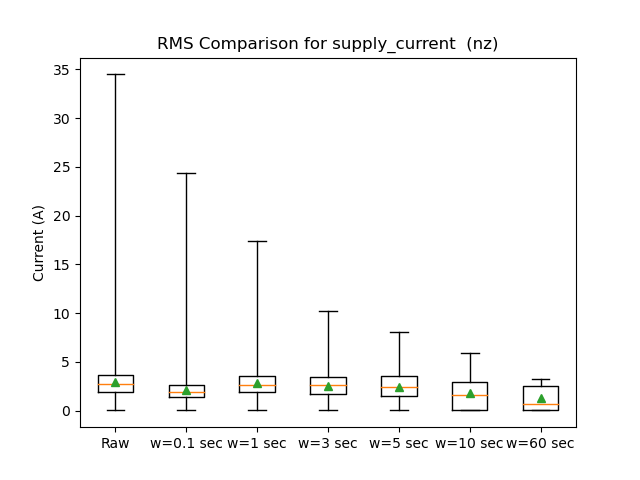
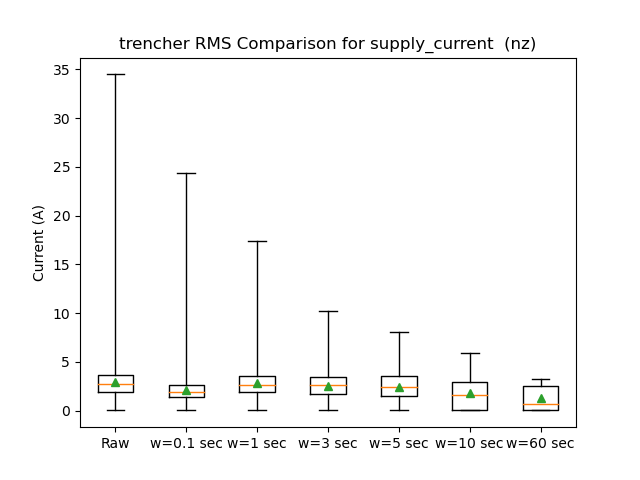
Added proper  titles to the graphs

Changed region(s): [[0.1875, 0.0625, 0.8438, 0.125]]

diff --git a/analyzer.py b/analyzer.py
@@ -99,6 +99,8 @@ def create_boxplot(
             arr_no_zeros = arr[arr != 0]
             values[idx] = arr_no_zeros
 
+    item_name = os.path.basename(fname).split('.')[0]
+
     plt.boxplot(values, showmeans=True, showfliers=False, whis=(0, 100))
     ticks = [1]
     labels = ["Raw"]
@@ -108,7 +110,7 @@ def create_boxplot(
 
     plt.xticks(ticks, labels)
     plt.ylabel("Current (A)")
-    plt.title(f"RMS Comparison for {header} {'' if not strip_zeros else " (nz)"}")
+    plt.title(f"{item_name} RMS Comparison for {header} {'' if not strip_zeros else " (nz)"}")
     plt.savefig(fname)
 
 

diff --git a/README.md b/README.md
@@ -28,3 +28,62 @@ There are 4 sets of box plots for each motor.
 
 The Y axis has units of Amps
 The X axis is spaced by Raw Data, then each of the sliding window sizes in order from least to greatest.
+
+## Results
+
+### Hopper Linear Actuators
+![img](https://raw.githubusercontent.com/Cardinal-Space-Mining/2025-Cosmic-Motor-Power-Analysis/refs/heads/main/out/hopper_act.info.csv_output_current_boxplot.png)
+
+![img2](https://raw.githubusercontent.com/Cardinal-Space-Mining/2025-Cosmic-Motor-Power-Analysis/refs/heads/main/out/hopper_act.info.csv_output_current_nz_boxplot.png)
+
+![img](https://raw.githubusercontent.com/Cardinal-Space-Mining/2025-Cosmic-Motor-Power-Analysis/refs/heads/main/out/hopper_act.info.csv_supply_current_boxplot.png)
+
+![img2](https://raw.githubusercontent.com/Cardinal-Space-Mining/2025-Cosmic-Motor-Power-Analysis/refs/heads/main/out/hopper_act.info.csv_supply_current_nz_boxplot.png)
+
+### Hopper Belt
+![img](https://raw.githubusercontent.com/Cardinal-Space-Mining/2025-Cosmic-Motor-Power-Analysis/refs/heads/main/out/hopper_belt.info.csv_output_current_boxplot.png)
+
+![img](https://raw.githubusercontent.com/Cardinal-Space-Mining/2025-Cosmic-Motor-Power-Analysis/refs/heads/main/out/hopper_belt.info.csv_output_current_nz_boxplot.png)
+
+![img](https://raw.githubusercontent.com/Cardinal-Space-Mining/2025-Cosmic-Motor-Power-Analysis/refs/heads/main/out/hopper_belt.info.csv_supply_current_boxplot.png)
+
+![img](https://raw.githubusercontent.com/Cardinal-Space-Mining/2025-Cosmic-Motor-Power-Analysis/refs/heads/main/out/hopper_belt.info.csv_supply_current_nz_boxplot.png)
+
+### Left Track
+
+![img](https://raw.githubusercontent.com/Cardinal-Space-Mining/2025-Cosmic-Motor-Power-Analysis/refs/heads/main/out/track_left.info.csv_output_current_boxplot.png)
+
+
+![img](https://raw.githubusercontent.com/Cardinal-Space-Mining/2025-Cosmic-Motor-Power-Analysis/refs/heads/main/out/track_left.info.csv_output_current_nz_boxplot.png)
+
+![img](https://raw.githubusercontent.com/Cardinal-Space-Mining/2025-Cosmic-Motor-Power-Analysis/refs/heads/main/out/track_left.info.csv_supply_current_boxplot.png)
+
+
+![img](https://raw.githubusercontent.com/Cardinal-Space-Mining/2025-Cosmic-Motor-Power-Analysis/refs/heads/main/out/track_left.info.csv_supply_current_nz_boxplot.png)
+
+### Right Track
+
+![img](https://raw.githubusercontent.com/Cardinal-Space-Mining/2025-Cosmic-Motor-Power-Analysis/refs/heads/main/out/track_right.info.csv_output_current_boxplot.png)
+
+
+![img](https://raw.githubusercontent.com/Cardinal-Space-Mining/2025-Cosmic-Motor-Power-Analysis/refs/heads/main/out/track_right.info.csv_output_current_nz_boxplot.png)
+
+![img](https://raw.githubusercontent.com/Cardinal-Space-Mining/2025-Cosmic-Motor-Power-Analysis/refs/heads/main/out/track_right.info.csv_supply_current_boxplot.png)
+
+
+![img](https://raw.githubusercontent.com/Cardinal-Space-Mining/2025-Cosmic-Motor-Power-Analysis/refs/heads/main/out/track_right.info.csv_supply_current_nz_boxplot.png)
+
+### Trencher
+
+
+![img](https://raw.githubusercontent.com/Cardinal-Space-Mining/2025-Cosmic-Motor-Power-Analysis/refs/heads/main/out/trencher.info.csv_output_current_boxplot.png)
+
+
+![img](https://raw.githubusercontent.com/Cardinal-Space-Mining/2025-Cosmic-Motor-Power-Analysis/refs/heads/main/out/trencher.info.csv_output_current_nz_boxplot.png)
+
+![img](https://raw.githubusercontent.com/Cardinal-Space-Mining/2025-Cosmic-Motor-Power-Analysis/refs/heads/main/out/trencher.info.csv_supply_current_boxplot.png)
+
+
+![img](https://raw.githubusercontent.com/Cardinal-Space-Mining/2025-Cosmic-Motor-Power-Analysis/refs/heads/main/out/trencher.info.csv_supply_current_nz_boxplot.png)
+
+## Conclusion
